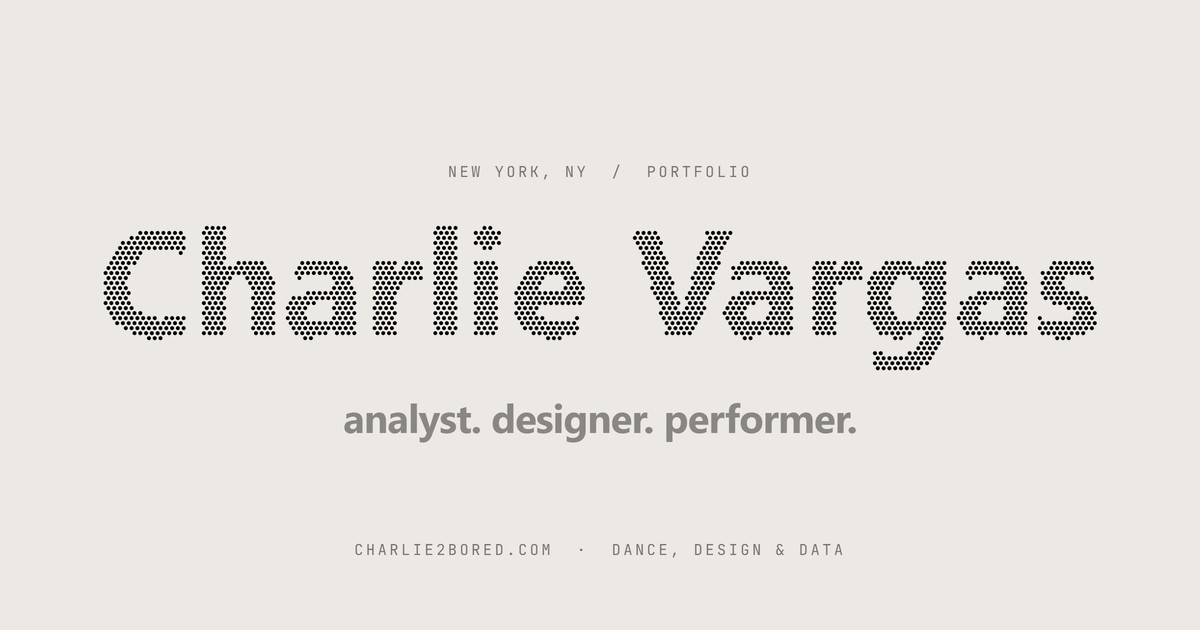
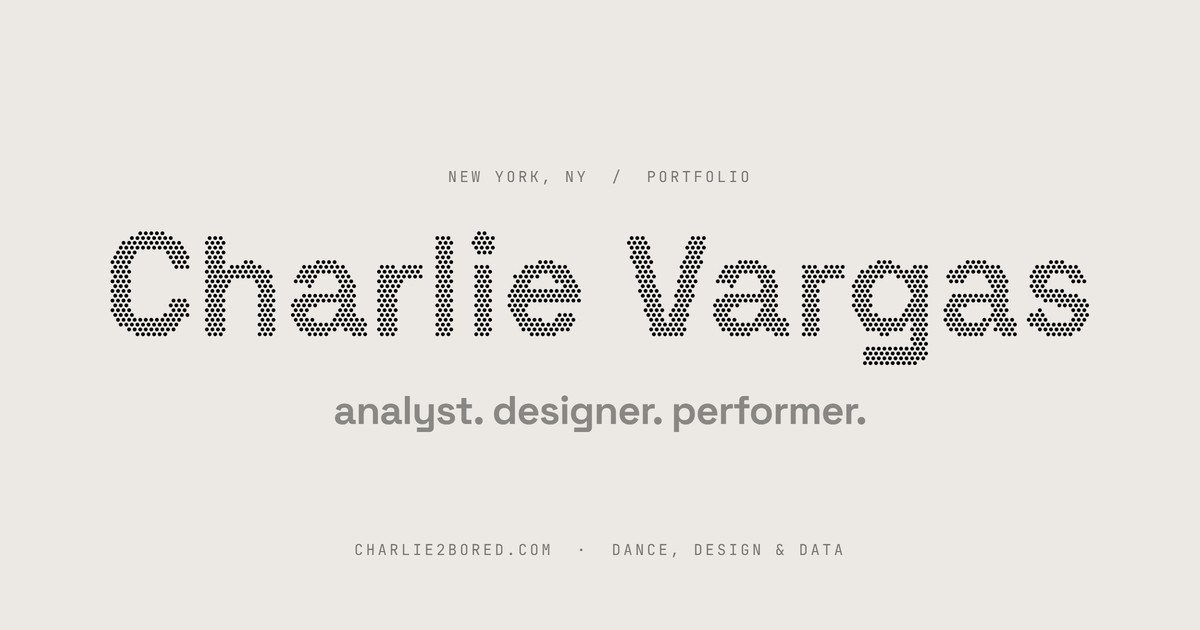
Titles in Space Grotesk, body in the system face
Charlie's call: Space Grotesk for titles, headlines and subheads, the
current system face for body copy. Space Grotesk was already loaded (as
--font-grotesk) but body's font-sans class overrode it everywhere, so the
whole site was in the system face.

A font-title utility now carries it, on every headline (the board, the
education caption, dance, design, the data chapters and stats, the
collage statement and its eyebrow, the error pages), the board's column
heads and job titles, the school names and the design captions' titles.
The dot headlines draw in it too; titleFont() loads the face before the
canvas uses it, since a canvas cannot wait for a font the way text can.

The link-preview card is re-rendered to match: the dotted name and the
role line in Space Grotesk.

diff --git a/src/components/site/DataSection.tsx b/src/components/site/DataSection.tsx
@@ -20,7 +20,7 @@
 import Image from 'next/image';
 import { useScroll, useSpring } from 'framer-motion';
 import { useCallback, useEffect, useRef, useState } from 'react';
-import { type Dot, halftone, seeded } from '@/lib/halftone';
+import { type Dot, halftone, seeded, titleFont } from '@/lib/halftone';
 import { dataBg, dataChapters, dataHeadline, dataIntro, type DataChapter, type DataFigure } from '@/lib/data';
 
 /* ---------- the full-size viewer ---------- */
@@ -130,7 +130,7 @@ function Brief({ c }: { c: DataChapter }) {
   return (
     <div className="max-w-[62ch]">
       <p className="font-mono text-[10px] uppercase tracking-[0.16em] text-black/50">{c.type}</p>
-      <h3 className="mt-2 text-[clamp(1.6rem,2.6vw,2.8rem)] font-bold leading-[1.02] tracking-[-0.02em]">{c.title}</h3>
+      <h3 className="font-title mt-2 text-[clamp(1.6rem,2.6vw,2.8rem)] font-bold leading-[1.02] tracking-[-0.02em]">{c.title}</h3>
       <p className="mt-1 text-sm text-black/60 lg:text-[13px]">{c.meta}</p>
       <dl className="mt-6 space-y-5 text-base leading-snug lg:space-y-4 lg:text-[clamp(0.9rem,1vw,1.05rem)]">
         {(
@@ -174,7 +174,7 @@ function Stats({ c }: { c: DataChapter }) {
       <div className="grid grid-cols-2 gap-px bg-black/15">
         {c.stats!.map((s) => (
           <div key={s.label} className="bg-[#ece9e4] p-[clamp(1rem,2vw,2rem)]">
-            <p className="text-[clamp(1.8rem,3.4vw,3.6rem)] font-bold leading-none tracking-[-0.03em]">{s.value}</p>
+            <p className="font-title text-[clamp(1.8rem,3.4vw,3.6rem)] font-bold leading-none tracking-[-0.03em]">{s.value}</p>
             <p className="mt-2 font-mono text-[10px] uppercase leading-[1.5] tracking-[0.12em] text-black/55">{s.label}</p>
           </div>
         ))}
@@ -233,7 +233,7 @@ function DotHeadline({ text }: { text: string }) {
   useEffect(() => {
     let cancelled = false;
     const build = async () => {
-      await document.fonts.ready;
+      const font = await titleFont();
       const cv = canvas.current;
       if (!cv || cancelled) return;
       const W = cv.clientWidth, H = cv.clientHeight;
@@ -242,7 +242,7 @@ function DotHeadline({ text }: { text: string }) {
       cv.width = Math.round(W * dpr);
       cv.height = Math.round(H * dpr);
       cv.getContext('2d')!.setTransform(dpr, 0, 0, dpr, 0, 0);
-      const { dots, gap, top, bottom } = halftone(text, { W, H, font: getComputedStyle(document.body).fontFamily, maxSize: H * 0.17, maxWidth: W * 0.86 });
+      const { dots, gap, top, bottom } = halftone(text, { W, H, font, maxSize: H * 0.17, maxWidth: W * 0.86 });
       const rand = seeded(42);
       for (let i = dots.length - 1; i > 0; i--) {
         const j = Math.floor(rand() * (i + 1));
@@ -393,7 +393,7 @@ export default function DataSection() {
         <article key={c.num} id={`data-${c.num}`} data-chapter={n} className="scroll-mt-32 border-t border-black/10 px-5 py-16 first-of-type:border-t-0 sm:px-[8vw] lg:scroll-mt-14 lg:px-[5vw] lg:py-[12vh]">
           <div className="grid gap-10 lg:grid-cols-[38%_1fr] lg:gap-[4vw]">
             <div className="lg:sticky lg:top-[14vh] lg:self-start">
-              <p className="text-[clamp(3rem,6vw,6.5rem)] font-bold leading-none tracking-[-0.04em] text-black/10">{c.num}</p>
+              <p className="font-title text-[clamp(3rem,6vw,6.5rem)] font-bold leading-none tracking-[-0.04em] text-black/10">{c.num}</p>
               <div className="mt-1 lg:-mt-[0.6em]">
                 <Brief c={c} />
               </div>

diff --git a/src/components/site/EducationBand.tsx b/src/components/site/EducationBand.tsx
@@ -135,7 +135,7 @@ function Label({ school, p }: { school: School; p: MotionValue<number> }) {
       }}
     >
       <p
-        className="absolute bottom-[0.45rem] left-0 whitespace-nowrap text-[clamp(1.2rem,min(3.4vw,7vh),5rem)] font-bold leading-none tracking-[-0.03em]"
+        className="font-title absolute bottom-[0.45rem] left-0 whitespace-nowrap text-[clamp(1.2rem,min(3.4vw,7vh),5rem)] font-bold leading-none tracking-[-0.03em]"
         style={{ color: educationText }}
       >
         {school.name}
@@ -190,7 +190,7 @@ export default function EducationBand() {
         <div className="relative hidden h-full lg:block">
           <motion.p
             data-band-motion
-            className="absolute left-1/2 w-full -translate-x-1/2 text-center text-[clamp(0.9rem,1.35vw,2rem)] font-bold"
+            className="font-title absolute left-1/2 w-full -translate-x-1/2 text-center text-[clamp(0.9rem,1.35vw,2rem)] font-bold"
             style={{ top: headlineTopPct, opacity: headlineOpacity, color: educationText }}
           >
             {educationHeading}
@@ -232,7 +232,7 @@ export default function EducationBand() {
         {/* Narrow screens: no pin to scrub, so the same facts stack. */}
         <div className="px-6 sm:px-8 lg:hidden">
           <p
-            className="text-center text-[clamp(0.9rem,3.5vw,1.4rem)] font-bold"
+            className="font-title text-center text-[clamp(0.9rem,3.5vw,1.4rem)] font-bold"
             style={{ color: educationText }}
           >
             {educationHeading}
@@ -245,7 +245,7 @@ export default function EducationBand() {
                 </div>
                 <div>
                   <p
-                    className="text-[1.05rem] font-bold leading-none tracking-[-0.02em]"
+                    className="font-title text-[1.05rem] font-bold leading-none tracking-[-0.02em]"
                     style={{ color: educationText }}
                   >
                     {s.name}

diff --git a/src/components/site/ErrorFrame.tsx b/src/components/site/ErrorFrame.tsx
@@ -1,7 +1,7 @@
 'use client';
 
 import { useEffect, useRef, type ReactNode } from 'react';
-import { halftone, seeded } from '@/lib/halftone';
+import { halftone, seeded, titleFont } from '@/lib/halftone';
 
 const PAPER = '#ece9e4';
 
@@ -16,7 +16,7 @@ function StrayWord({ word, strays }: { word: string; strays: number }) {
   useEffect(() => {
     let cancelled = false;
     const draw = async () => {
-      await document.fonts.ready;
+      const font = await titleFont();
       const cv = canvas.current;
       if (!cv || cancelled) return;
       const W = cv.clientWidth, H = cv.clientHeight;
@@ -29,7 +29,7 @@ function StrayWord({ word, strays }: { word: string; strays: number }) {
       const { dots, gap } = halftone(word, {
         W,
         H,
-        font: getComputedStyle(document.body).fontFamily,
+        font,
         maxSize: H * 0.36,
         maxWidth: W * 0.8,
         cy: H * 0.34,
@@ -89,7 +89,7 @@ export default function ErrorFrame({
       <StrayWord word={word} strays={0.08} />
       <div className="relative flex min-h-dvh flex-col items-center justify-end px-5 pb-[9vh] text-center">
         <p className="font-mono text-[11px] uppercase tracking-[0.18em] text-black/50">{eyebrow}</p>
-        <h1 className="mt-4 text-[clamp(2.2rem,5.4vw,5.75rem)] font-bold leading-[0.95] tracking-[-0.035em]">
+        <h1 className="font-title mt-4 text-[clamp(2.2rem,5.4vw,5.75rem)] font-bold leading-[0.95] tracking-[-0.035em]">
           {headline.split(/(?<=\?)\s+/).map((part) => (
             <span key={part} className="block">
               {part}

diff --git a/src/components/site/ExperienceBoard.tsx b/src/components/site/ExperienceBoard.tsx
@@ -60,7 +60,7 @@ function Entry({
 
   return (
     <motion.li data-board-motion style={{ opacity, y }}>
-      <p className="text-[clamp(0.85rem,min(0.9vw,2vh),1.4rem)] font-bold leading-snug"
+      <p className="font-title text-[clamp(0.85rem,min(0.9vw,2vh),1.4rem)] font-bold leading-snug"
         style={{ color: boardText }}>
         {entry.title}
       </p>
@@ -125,7 +125,7 @@ export default function ExperienceBoard() {
       >
         <motion.p
           data-board-motion
-          className="origin-center text-center text-[clamp(0.9rem,1.35vw,2rem)] font-bold text-black lg:pt-[clamp(0.5rem,2vh,3rem)]"
+          className="font-title origin-center text-center text-[clamp(0.9rem,1.35vw,2rem)] font-bold text-black lg:pt-[clamp(0.5rem,2vh,3rem)]"
           style={{ scale: headlineScale, opacity: headlineOpacity }}
         >
           {experienceHeading}
@@ -143,7 +143,7 @@ export default function ExperienceBoard() {
               >
                 <motion.h2
                   data-board-motion
-                  className="relative text-center text-[clamp(3rem,min(7.17vw,11vh),10rem)] font-bold leading-none tracking-[-0.02em] lg:pt-[clamp(0.5rem,2vh,3.5rem)]"
+                  className="font-title relative text-center text-[clamp(3rem,min(7.17vw,11vh),10rem)] font-bold leading-none tracking-[-0.02em] lg:pt-[clamp(0.5rem,2vh,3.5rem)]"
                   style={{ color: boardText, opacity: headingOpacity, y: headingY }}
                 >
                   {column.heading}

diff --git a/src/components/site/DesignSequence.tsx b/src/components/site/DesignSequence.tsx
@@ -44,7 +44,7 @@ function Caption({ category, title, note }: { category: string; title: string; n
   return (
     <div className="mt-4 max-w-[46ch]">
       <p className="mb-1.5 font-mono text-[10px] uppercase tracking-[0.18em] text-black/50">{category}</p>
-      <p className="text-[13px] font-bold">{title}</p>
+      <p className="font-title text-[13px] font-bold">{title}</p>
       <p className="mt-1 text-[12px] text-black/60">{note}</p>
     </div>
   );
@@ -178,7 +178,7 @@ function Page({ p, onOpen }: { p: DesignPage; onOpen: (s: DesignSite) => void })
       return (
         <div className="flex w-[max(58vw,19rem)] shrink-0 flex-col justify-center" style={{ height: PANEL_H }}>
           <p className="font-mono text-[11px] uppercase tracking-[0.18em] text-black/50">04 — design</p>
-          <h2 className="mt-6 text-[clamp(2.4rem,6.4vw,8rem)] font-bold leading-[0.95] tracking-[-0.035em]">
+          <h2 className="font-title mt-6 text-[clamp(2.4rem,6.4vw,8rem)] font-bold leading-[0.95] tracking-[-0.035em]">
             {designHeading.split(/(?<=\?)\s+/).map((part) => (
               <span key={part} className="block">
                 {part}

diff --git a/src/lib/halftone.ts b/src/lib/halftone.ts
@@ -60,3 +60,18 @@ export function halftone(
       }
   return { dots: dots.slice(0, 6000), gap, top, bottom };
 }
+
+/**
+ * The title face (Space Grotesk, via next/font's --font-grotesk on body),
+ * loaded before it is drawn: a canvas cannot wait for a font the way text
+ * can, so a face nothing has used yet would otherwise draw as the fallback.
+ */
+export async function titleFont() {
+  const family = getComputedStyle(document.body).getPropertyValue('--font-grotesk').trim();
+  const stack = `${family ? `${family}, ` : ''}ui-sans-serif, system-ui, sans-serif`;
+  try {
+    await document.fonts.load(`700 100px ${stack}`);
+  } catch {}
+  await document.fonts.ready;
+  return stack;
+}

diff --git a/src/components/site/DanceField.tsx b/src/components/site/DanceField.tsx
@@ -255,7 +255,7 @@ export default function DanceField() {
       */}
       <div className="relative h-[180vh]">
         <div className="sticky top-0 flex h-dvh items-center justify-center px-[4vw]">
-          <p className="text-center text-[clamp(2.4rem,6.4vw,8rem)] font-bold leading-[0.95] tracking-[-0.035em]">
+          <p className="font-title text-center text-[clamp(2.4rem,6.4vw,8rem)] font-bold leading-[0.95] tracking-[-0.035em]">
             {danceHeading.split(/(?<=\?)\s+/).map((part) => (
               <span key={part} className="block">
                 {part}

diff --git a/src/components/site/Opening.tsx b/src/components/site/Opening.tsx
@@ -27,9 +27,9 @@ import {
 import { useMediaQuery } from '@/hooks/useMediaQuery';
 
 const STATEMENT_CLASS =
-  'font-bold leading-[1.06] tracking-[-0.02em] text-[clamp(1.35rem,5.15vw,6.5rem)]';
+  'font-title font-bold leading-[1.06] tracking-[-0.02em] text-[clamp(1.35rem,5.15vw,6.5rem)]';
 const EYEBROW_CLASS =
-  'font-bold leading-[1.25] tracking-[0.01em] text-[clamp(0.6rem,1.12vw,1.4rem)]';
+  'font-title font-bold leading-[1.25] tracking-[0.01em] text-[clamp(0.6rem,1.12vw,1.4rem)]';
 
 function HeroImage() {
   return (

diff --git a/src/app/globals.css b/src/app/globals.css
@@ -1,5 +1,13 @@
 @import "tailwindcss";
 
+/*
+ * Two voices: Space Grotesk for titles, headlines and subheads (`font-title`),
+ * the system face for body copy (Tailwind's font-sans, set on body).
+ */
+@theme inline {
+  --font-title: var(--font-grotesk), ui-sans-serif, system-ui, sans-serif;
+}
+
 :root {
   --gd-bg: #f8fafd;
   --gd-surface: #ffffff;
